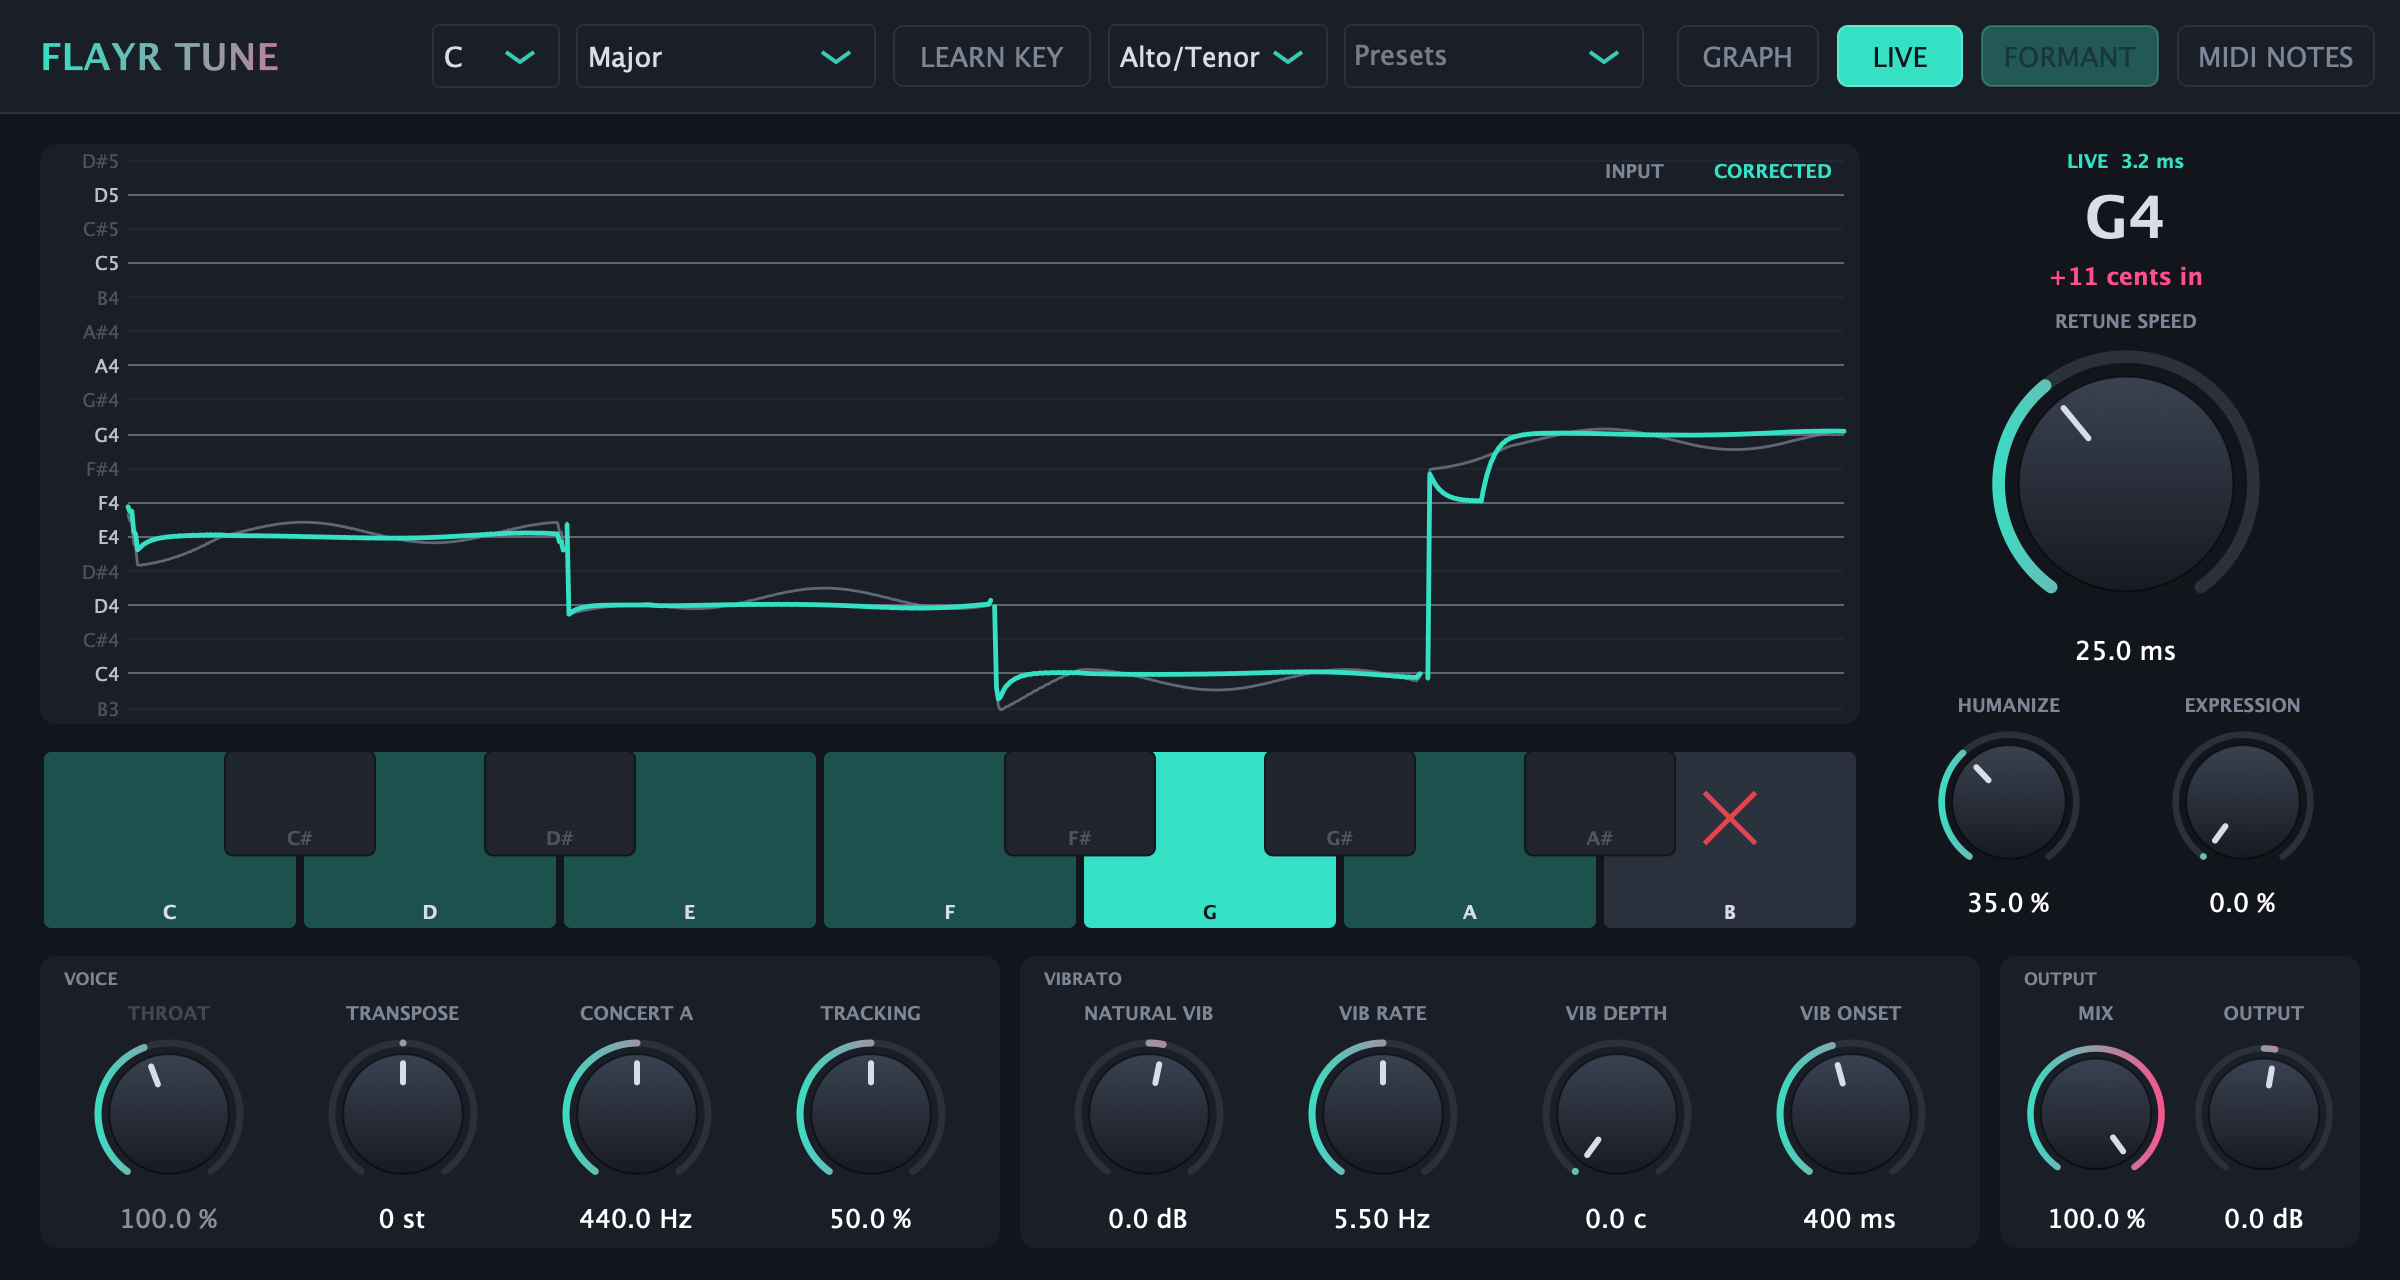
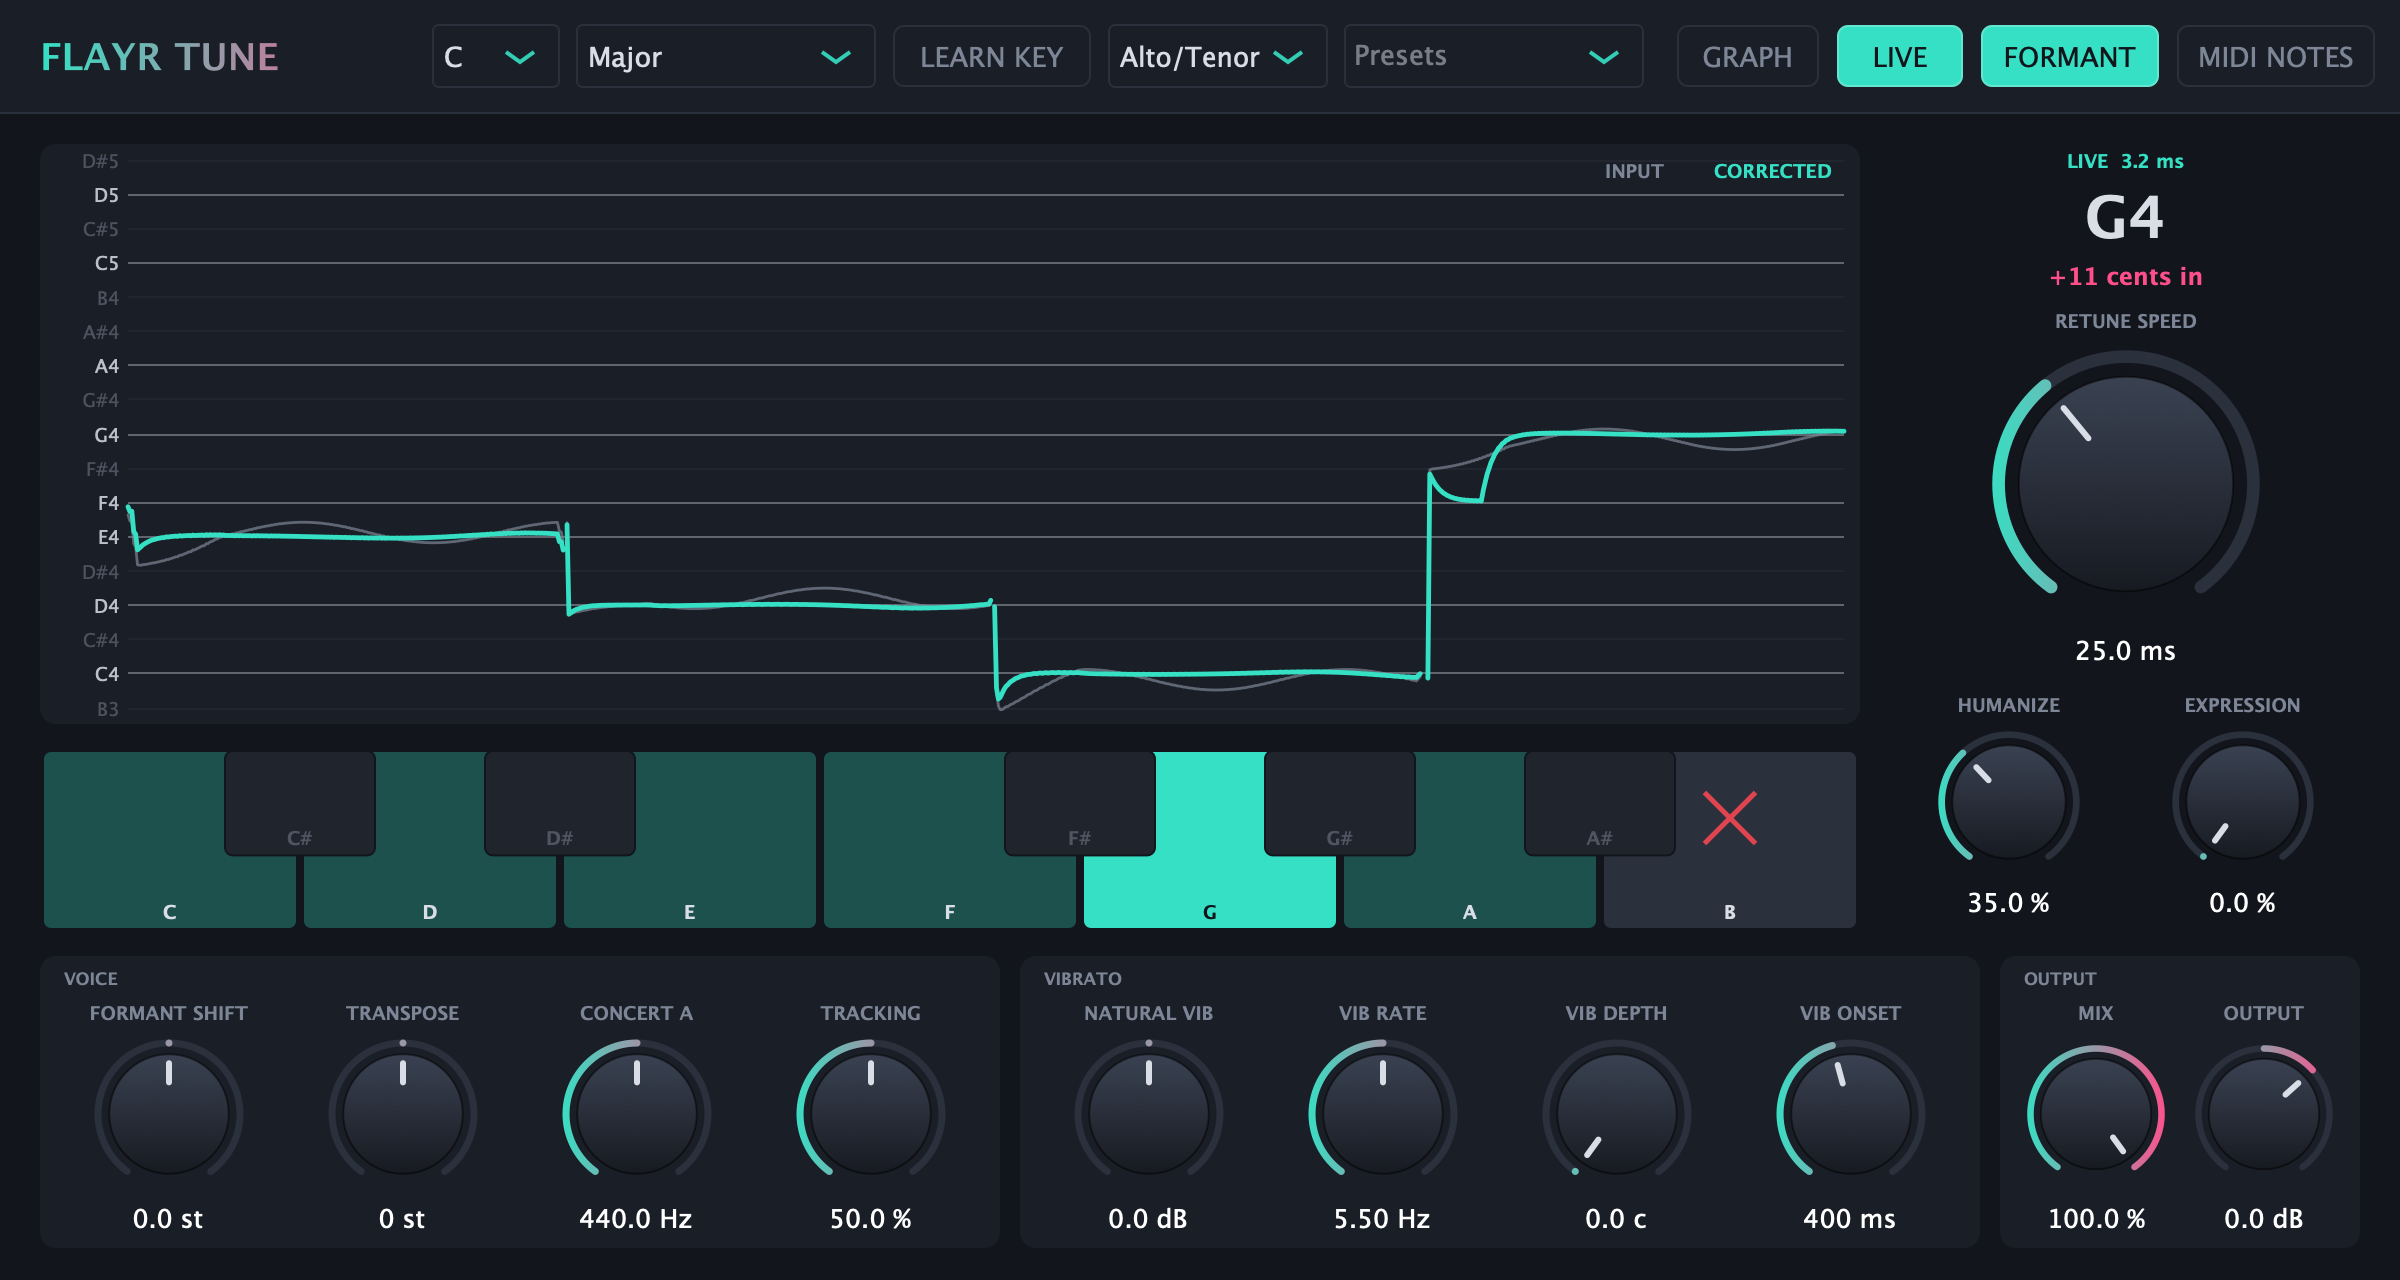
Formant Shift replaces Throat; fix unintended knob skew
- Throat (70-140 % tract length) becomes Formant Shift in semitones (+/-6,
  up = brighter); projects from 1.0-1.2 are converted on load.
- Formant and Formant Shift stay enabled in Live mode, which supports them.
- Bipolar knobs (Natural Vib, Formant Shift, Output) were skewed because the
  'no skew' default (-1) was above their minimum; skew only when asked.
- Version 1.3.0.

diff --git a/Source/PluginProcessor.cpp b/Source/PluginProcessor.cpp
@@ -6,19 +6,19 @@ namespace
 struct Preset
 {
     const char* name;
-    float retune, humanize, flex, natVib, throat, transpose, vibDepth;
+    float retune, humanize, flex, natVib, formantShift, transpose, vibDepth;
     bool formant;
 };
 
 const std::array<Preset, 8> kPresets { {
-    { "Natural Vocal",       45.0f, 40.0f, 30.0f,  0.0f, 100.0f,   0.0f,  0.0f, true  },
-    { "Pop Polish",          15.0f, 25.0f, 10.0f,  0.0f, 100.0f,   0.0f,  0.0f, true  },
-    { "Hard Tune",            0.0f,  0.0f,  0.0f,  0.0f, 100.0f,   0.0f,  0.0f, true  },
-    { "Subtle Pitch Fix",   120.0f, 60.0f, 60.0f,  0.0f, 100.0f,   0.0f,  0.0f, true  },
-    { "Lush Vibrato",        30.0f, 30.0f, 20.0f,  6.0f, 100.0f,   0.0f, 20.0f, true  },
-    { "Darker Voice",        30.0f, 30.0f, 20.0f,  0.0f, 120.0f,   0.0f,  0.0f, true  },
-    { "Octave Down Monster",  0.0f,  0.0f,  0.0f,  0.0f, 130.0f, -12.0f,  0.0f, true  },
-    { "Chipmunk",            10.0f,  0.0f,  0.0f,  0.0f, 100.0f,  12.0f,  0.0f, false },
+    { "Natural Vocal",       45.0f, 40.0f, 30.0f,  0.0f,  0.0f,   0.0f,  0.0f, true  },
+    { "Pop Polish",          15.0f, 25.0f, 10.0f,  0.0f,  0.0f,   0.0f,  0.0f, true  },
+    { "Hard Tune",            0.0f,  0.0f,  0.0f,  0.0f,  0.0f,   0.0f,  0.0f, true  },
+    { "Subtle Pitch Fix",   120.0f, 60.0f, 60.0f,  0.0f,  0.0f,   0.0f,  0.0f, true  },
+    { "Lush Vibrato",        30.0f, 30.0f, 20.0f,  6.0f,  0.0f,   0.0f, 20.0f, true  },
+    { "Darker Voice",        30.0f, 30.0f, 20.0f,  0.0f, -3.2f,   0.0f,  0.0f, true  },
+    { "Octave Down Monster",  0.0f,  0.0f,  0.0f,  0.0f, -4.5f, -12.0f,  0.0f, true  },
+    { "Chipmunk",            10.0f,  0.0f,  0.0f,  0.0f,  0.0f,  12.0f,  0.0f, false },
 } };
 } // namespace
 
@@ -30,7 +30,7 @@ FlayrTuneProcessor::FlayrTuneProcessor()
 {
     auto get = [this] (const juce::String& id) { return apvts.getRawParameterValue (id); };
     raw = { get ("retune"), get ("humanize"), get ("flex"), get ("natvib"), get ("key"), get ("scale"),
-            get ("inputType"), get ("formant"), get ("throat"), get ("transpose"), get ("concertA"),
+            get ("inputType"), get ("formant"), get ("formantShift"), get ("transpose"), get ("concertA"),
             get ("tracking"), get ("vibRate"), get ("vibDepth"), get ("vibDelay"), get ("mix"),
             get ("output"), get ("midiTarget"), get ("live"), get ("graph"), {} };
     engine.setTrack (&track);
@@ -53,10 +53,10 @@ juce::AudioProcessorValueTreeState::ParameterLayout FlayrTuneProcessor::createLa
     std::vector<std::unique_ptr<RangedAudioParameter>> p;
 
     auto addFloat = [&p] (const char* id, const char* name, float lo, float hi, float step, float def,
-                          const char* unit, float skewCentre = -1.0f)
+                          const char* unit, float skewCentre = NAN)
     {
         NormalisableRange<float> range (lo, hi, step);
-        if (skewCentre > lo)
+        if (std::isfinite (skewCentre)) // only Retune Speed and Vibrato Onset are skewed
             range.setSkewForCentre (skewCentre);
         p.push_back (std::make_unique<AudioParameterFloat> (ParameterID { id, 1 }, name, range, def,
                                                             AudioParameterFloatAttributes().withLabel (unit)));
@@ -66,7 +66,7 @@ juce::AudioProcessorValueTreeState::ParameterLayout FlayrTuneProcessor::createLa
     addFloat ("humanize",  "Humanize",        0.0f,  100.0f, 0.1f,   0.0f, "%");
     addFloat ("flex",      "Expression",      0.0f,  100.0f, 0.1f,   0.0f, "%");
     addFloat ("natvib",    "Natural Vibrato", -12.0f, 12.0f, 0.1f,   0.0f, "dB");
-    addFloat ("throat",    "Throat Length",   70.0f, 140.0f, 0.1f, 100.0f, "%");
+    addFloat ("formantShift", "Formant Shift", -6.0f,  6.0f, 0.1f,   0.0f, "st");
     addFloat ("concertA",  "Concert A",      430.0f, 450.0f, 0.1f, 440.0f, "Hz");
     addFloat ("tracking",  "Tracking",        0.0f,  100.0f, 0.1f,  50.0f, "%");
     addFloat ("vibRate",   "Vibrato Rate",    1.0f,   10.0f, 0.01f,  5.5f, "Hz");
@@ -124,7 +124,8 @@ tune::Params FlayrTuneProcessor::readParams() const
     p.scale = (int) raw.scale->load();
     p.inputType = (int) raw.inputType->load();
     p.formantPreserve = raw.formant->load() > 0.5f;
-    p.throat = raw.throat->load() / 100.0f;
+    // The engine models a vocal-tract length: +12 st of formant shift = half the length.
+    p.throat = std::pow (2.0f, -raw.formantShift->load() / 12.0f);
     p.transpose = raw.transpose->load();
     p.concertA = raw.concertA->load();
     p.tracking = raw.tracking->load() / 100.0f;
@@ -211,7 +212,7 @@ void FlayrTuneProcessor::setCurrentProgram (int index)
     set ("humanize", pr.humanize);
     set ("flex", pr.flex);
     set ("natvib", pr.natVib);
-    set ("throat", pr.throat);
+    set ("formantShift", pr.formantShift);
     set ("transpose", pr.transpose);
     set ("vibDepth", pr.vibDepth);
     set ("formant", pr.formant ? 1.0f : 0.0f);
@@ -293,6 +294,18 @@ void FlayrTuneProcessor::setStateInformation (const void* data, int sizeInBytes)
         return;
 
     auto tree = juce::ValueTree::fromXml (*xml);
+
+    // Projects from 1.0-1.2 stored "throat" (70-140 % tract length); convert to semitones.
+    const auto oldThroat = tree.getChildWithProperty ("id", "throat");
+    if (oldThroat.isValid() && ! tree.getChildWithProperty ("id", "formantShift").isValid())
+    {
+        const double length = juce::jlimit (0.5, 2.0, (double) oldThroat.getProperty ("value", 100.0) / 100.0);
+        juce::ValueTree shift ("PARAM");
+        shift.setProperty ("id", "formantShift", nullptr);
+        shift.setProperty ("value", juce::jlimit (-6.0, 6.0, -12.0 * std::log2 (length)), nullptr);
+        tree.appendChild (shift, nullptr);
+    }
+    tree.removeChild (oldThroat, nullptr);
     const auto trackTree = tree.getChildWithName (kTrackTag);
     if (trackTree.isValid())
         decodeTrack (track, trackTree.getProperty ("data").toString());

diff --git a/Source/PluginEditor.cpp b/Source/PluginEditor.cpp
@@ -261,7 +261,7 @@ FlayrTuneEditor::FlayrTuneEditor (FlayrTuneProcessor& p)
         addAndMakeVisible (*b);
     }
     liveBtn.setTooltip ("Live mode: near-zero latency (about 1.5 to 10 ms, depending on the voice) for tracking and "
-                        "performing. Formant and Throat are unavailable in this mode; Studio sounds best on big shifts");
+                        "performing. Studio has the best quality on big shifts");
     liveAtt = std::make_unique<juce::AudioProcessorValueTreeState::ButtonAttachment> (proc.apvts, "live", liveBtn);
     graphBtn.setTooltip ("Graph mode: capture the vocal along the song, then draw exact pitch, lines or notes");
     graphAtt = std::make_unique<juce::AudioProcessorValueTreeState::ButtonAttachment> (proc.apvts, "graph", graphBtn);
@@ -287,14 +287,15 @@ FlayrTuneEditor::FlayrTuneEditor (FlayrTuneProcessor& p)
     humanize = &addKnob ("humanize", "HUMANIZE", " %");
     flex = &addKnob ("flex", "EXPRESSION", " %");
 
-    throat = &addKnob ("throat", "THROAT", " %");
-    voiceRow = { throat, &addKnob ("transpose", "TRANSPOSE", " st"),
+    auto* formantShift = &addKnob ("formantShift", "FORMANT SHIFT", " st");
+    formantShift->slider.setTooltip ("Moves the voice's formants: up = brighter, smaller voice; down = deeper, bigger voice");
+    voiceRow = { formantShift, &addKnob ("transpose", "TRANSPOSE", " st"),
                  &addKnob ("concertA", "CONCERT A", " Hz"), &addKnob ("tracking", "TRACKING", " %") };
     vibRow = { &addKnob ("natvib", "NATURAL VIB", " dB"), &addKnob ("vibRate", "VIB RATE", " Hz"),
                &addKnob ("vibDepth", "VIB DEPTH", " c"), &addKnob ("vibDelay", "VIB ONSET", " ms") };
     outRow = { &addKnob ("mix", "MIX", " %"), &addKnob ("output", "OUTPUT", " dB") };
 
-    for (auto* k : { voiceRow[1], vibRow[0], outRow[1] })
+    for (auto* k : { voiceRow[0], voiceRow[1], vibRow[0], outRow[1] })
         k->slider.getProperties().set ("bipolar", true);
 
     retune->slider.setTooltip ("How fast notes are pulled to pitch. 0 = hard tune effect");
@@ -386,9 +387,6 @@ void FlayrTuneEditor::timerCallback()
         graphEditor->refresh();
 
     const bool live = proc.apvts.getRawParameterValue ("live")->load() > 0.5f;
-    formantBtn.setEnabled (! live);
-    throat->slider.setEnabled (! live);
-    throat->label.setAlpha (live ? 0.4f : 1.0f);
     if (live)
     {
         const double now = 1000.0 * proc.engine.getLiveDelaySamples() / proc.engine.getSampleRate();

diff --git a/tools/snapshot.cpp b/tools/snapshot.cpp
@@ -90,6 +90,21 @@ int main (int argc, char** argv)
         std::printf ("state round trip: extent %d -> %d, %d edits, %d mismatches, %d bytes\n", proc.track.getExtent(),
                      copy.track.getExtent(), edits, mismatches, (int) state.getSize());
 
+        // A project saved by 1.0-1.2 with Throat Length 120 % must load as about -3.2 st.
+        {
+            auto old = proc.apvts.copyState();
+            old.removeChild (old.getChildWithProperty ("id", "formantShift"), nullptr);
+            juce::ValueTree throat ("PARAM");
+            throat.setProperty ("id", "throat", nullptr).setProperty ("value", 120.0, nullptr);
+            old.appendChild (throat, nullptr);
+            juce::MemoryBlock legacy;
+            proc.copyXmlToBinary (*old.createXml(), legacy);
+            FlayrTuneProcessor migrated;
+            migrated.setStateInformation (legacy.getData(), (int) legacy.getSize());
+            std::printf ("legacy throat 120%% -> formant shift %.2f st\n",
+                         migrated.apvts.getRawParameterValue ("formantShift")->load());
+        }
+
         // A hostile project: 50 MB of zeros gzipped into a few KB must be refused quickly.
         juce::MemoryOutputStream packed;
         {

diff --git a/Source/PluginProcessor.h b/Source/PluginProcessor.h
@@ -55,7 +55,7 @@ private:
     {
         std::atomic<float>* retune; std::atomic<float>* humanize; std::atomic<float>* flex;
         std::atomic<float>* natvib; std::atomic<float>* key; std::atomic<float>* scale;
-        std::atomic<float>* inputType; std::atomic<float>* formant; std::atomic<float>* throat;
+        std::atomic<float>* inputType; std::atomic<float>* formant; std::atomic<float>* formantShift;
         std::atomic<float>* transpose; std::atomic<float>* concertA; std::atomic<float>* tracking;
         std::atomic<float>* vibRate; std::atomic<float>* vibDepth; std::atomic<float>* vibDelay;
         std::atomic<float>* mix; std::atomic<float>* output; std::atomic<float>* midiTarget;

diff --git a/Source/PluginEditor.h b/Source/PluginEditor.h
@@ -102,7 +102,7 @@ private:
     Knob* retune = nullptr;
     Knob* humanize = nullptr;
     Knob* flex = nullptr;
-    Knob* throat = nullptr;
+
     std::vector<Knob*> voiceRow, vibRow, outRow;
 
     float lastIn = 0.0f, lastTarget = -1.0f;

diff --git a/README.md b/README.md
@@ -63,7 +63,7 @@ part, and press it again), then turn **Retune Speed**:
 | Humanize | Short notes snap fast; long held notes ease in, so they keep their natural drift. |
 | Expression | Only corrects notes already close to pitch. Scoops, slides and bends are left alone. |
 | Natural Vib | Makes the singer's own vibrato deeper or shallower (±12 dB). |
-| Formant / Throat | Keeps the voice's character when shifting, or makes it darker or brighter. |
+| Formant / Formant Shift | Formant keeps the voice's character when shifting. Formant Shift (±6 st) makes the voice deeper or brighter on purpose. |
 | Transpose | ±12 semitones. |
 | Vib Rate / Depth / Onset | Adds vibrato to held notes. |
 | Keyboard | Click a note to stop correcting to it (red X). |
@@ -76,7 +76,7 @@ part, and press it again), then turn **Retune Speed**:
   compensates on playback.
 - **LIVE** is for recording and performing through the plug-in. Latency is about 1.5 ms on high
   notes up to about 10 ms on a low male voice, and the current value is shown above the note
-  readout. Formant and Throat work in both modes.
+  readout. Formant and Formant Shift work in both modes.
 
 ![Live mode](docs/live.png)
 
@@ -128,13 +128,13 @@ so it can be tested on its own ([`tests/engine_test.cpp`](tests/engine_test.cpp)
   re-targeting on real note changes. On top of that sit Retune Speed smoothing, Humanize,
   Expression, Natural Vibrato rescaling, synthetic vibrato and Graph-mode edits.
 - **Studio mode:** TD-PSOLA. Grains always span one input period, which keeps the formants in
-  place; resampling the grains moves them (Throat).
+  place; resampling the grains moves them (Formant Shift).
 - **Live mode:**
   - A pitch-synchronous delay-line shifter that splices whole periods, with no look-ahead.
   - It predicts the current pitch across the analysis gap, and sizes its analysis window from
     the voice it is tracking.
   - Formants come from an LPC split: the flat residual is shifted, then the spectral envelope is
-    re-applied (Throat stretches it first).
+    re-applied (Formant Shift stretches it first).
 
 ## Contributing
 
